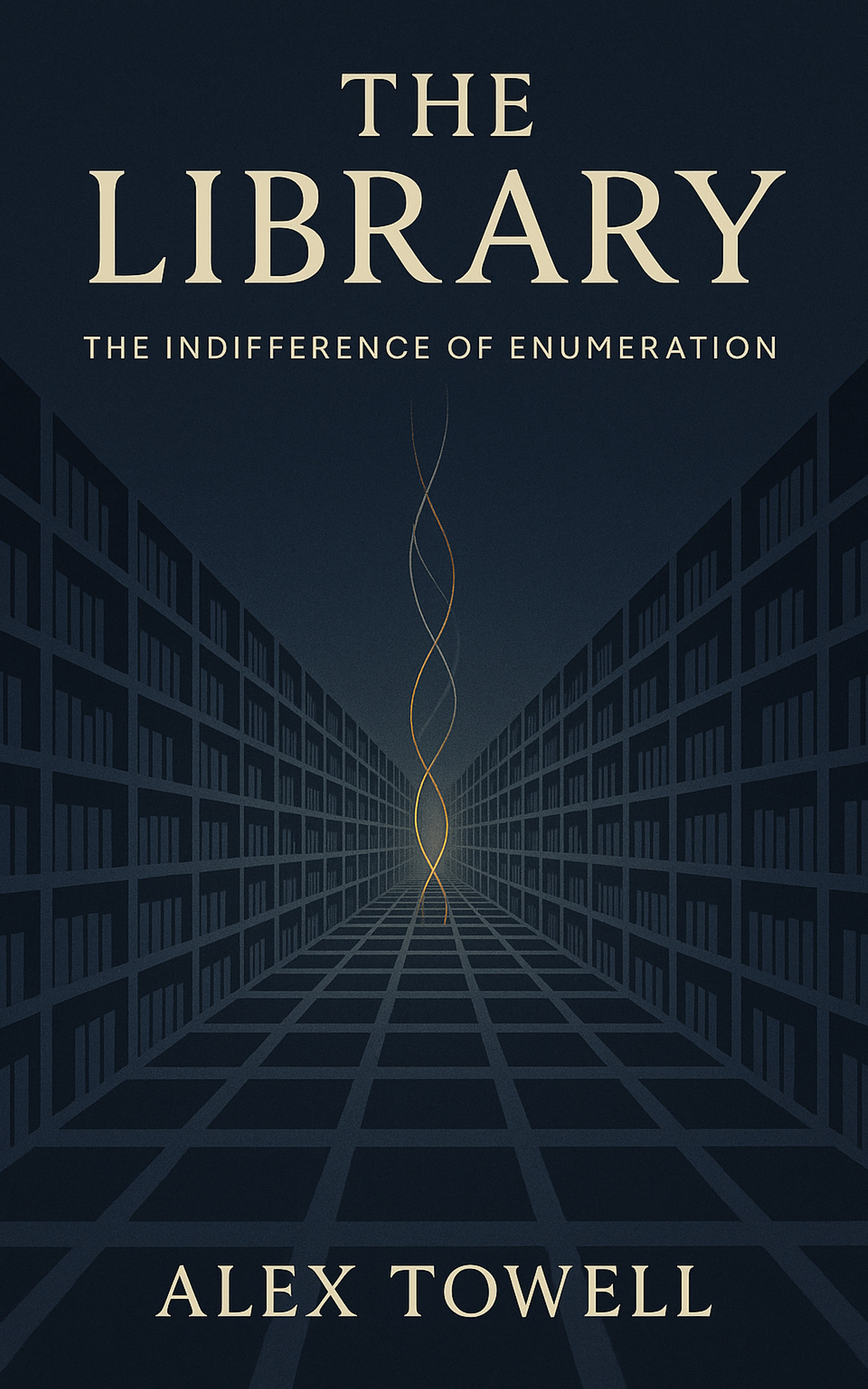
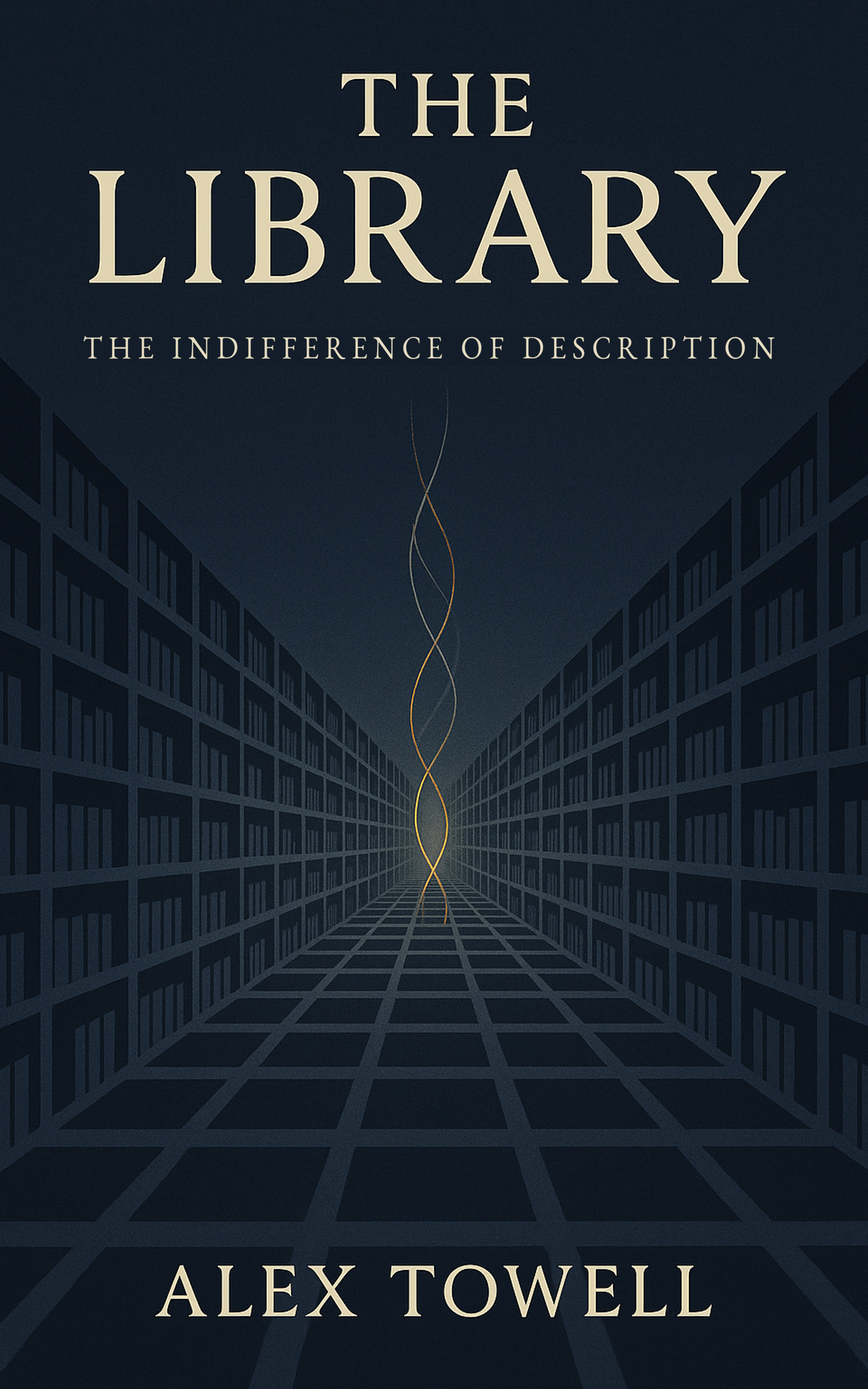
cover: regenerate ebook cover for the Description subtitle
The cover still carried the retired subtitle "The Indifference of Enumeration."
Re-set the subtitle line in place rather than regenerating the art: painted the
flat-navy band over the old word and typeset "THE INDIFFERENCE OF DESCRIPTION"
in EB Garamond caps matched to the title (color, size, tracking), fitted to the
original text box. The corridor/braid artwork, title, and byline are untouched.
Both subtitles are 31 characters, so the line keeps its exact footprint.

Passes kdp_validate_cover (ebook): 1600x2560, ratio 1.600, sRGB JPEG, 0.8MB.
The EPUB embeds the new cover. Also fixed the stale "Enumeration" subtitle in
the comment headers of kdp/kindle.css and kdp/epub-filter.lua (comments only,
no output change).

Claude-Session: https://claude.ai/code/session_01TmQHBLQfqGcjTdAewXYUmV

Changed region(s): [[0.0938, 0.2188, 0.5, 0.2812], [0.5312, 0.2188, 0.9062, 0.2812]]

diff --git a/kdp/kindle.css b/kdp/kindle.css
@@ -1,4 +1,4 @@
-/* The Library: The Indifference of Enumeration -- EPUB Stylesheet */
+/* The Library: The Indifference of Description -- EPUB Stylesheet */
 
 /* -- Title page -- */
 .titlepage {
